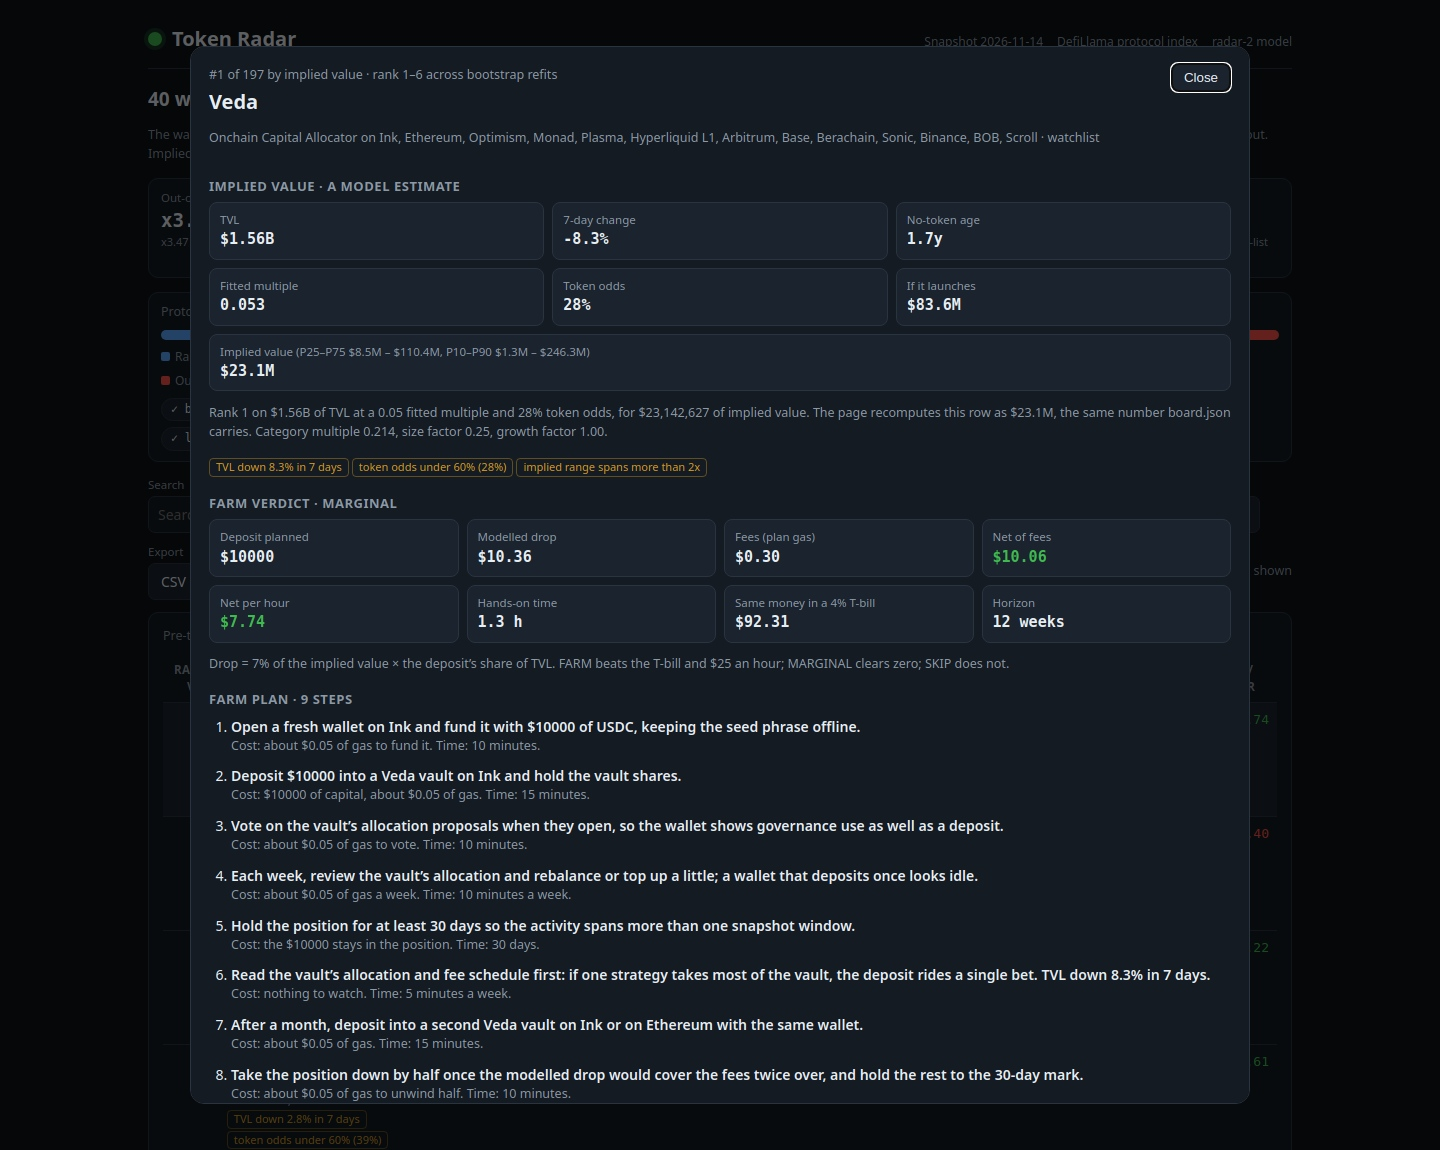
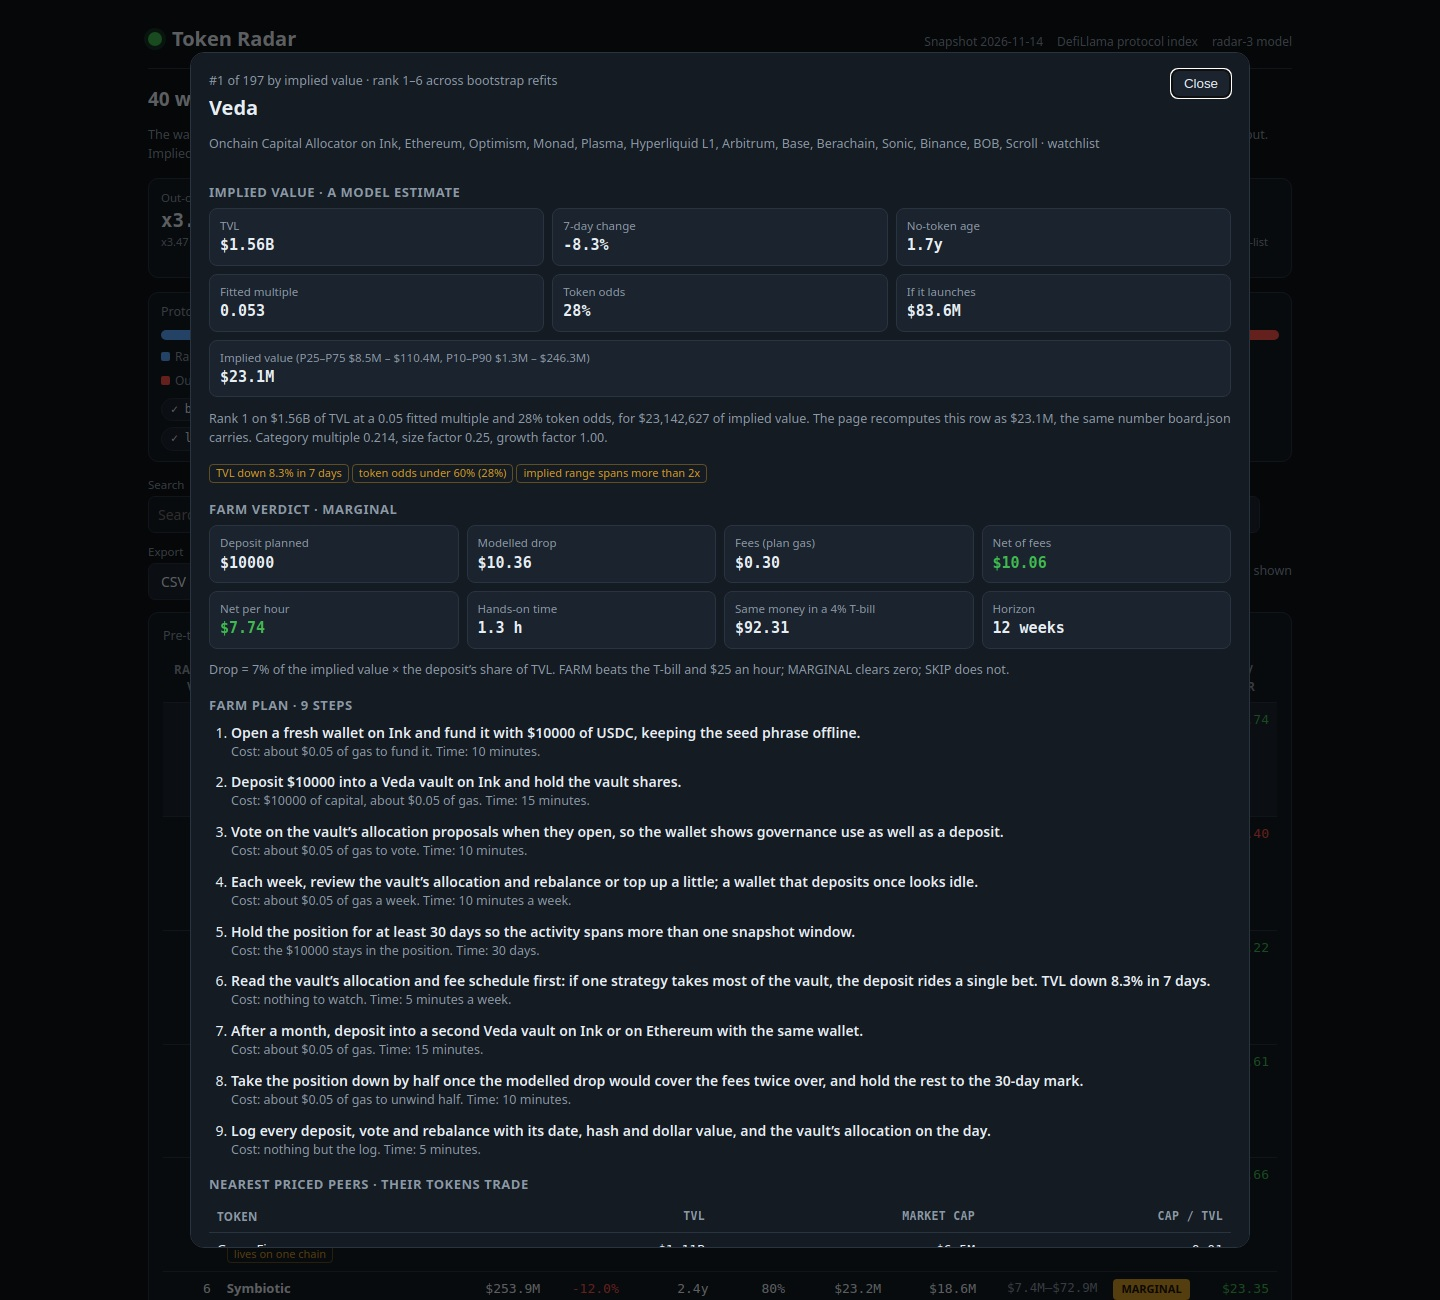
Token Radar: rename model to radar-3, retake detail screenshot showing all 9 farm steps

diff --git a/lib/model.ts b/lib/model.ts
@@ -1,4 +1,4 @@
-// Token Radar's model, version radar-2: one snapshot of the protocol universe in, one ranked board out.
+// Token Radar's model, version radar-3: one snapshot of the protocol universe in, one ranked board out.
 //
 // The board ranks every pre-token protocol the house rules leave rankable: the 40-protocol watchlist
 // is the floor, and the early radar adds the pre-token protocols below it plus the ones above the
@@ -52,7 +52,7 @@ export class SnapshotError extends Error {
 }
 
 /** The model's version label: the dashboard names it and the rules quote it. */
-export const MODEL_VERSION = 'radar-2';
+export const MODEL_VERSION = 'radar-3';
 
 /** How many live-token protocols the Live token view carries, by market cap. */
 export const LIVE_ROWS = 24;
